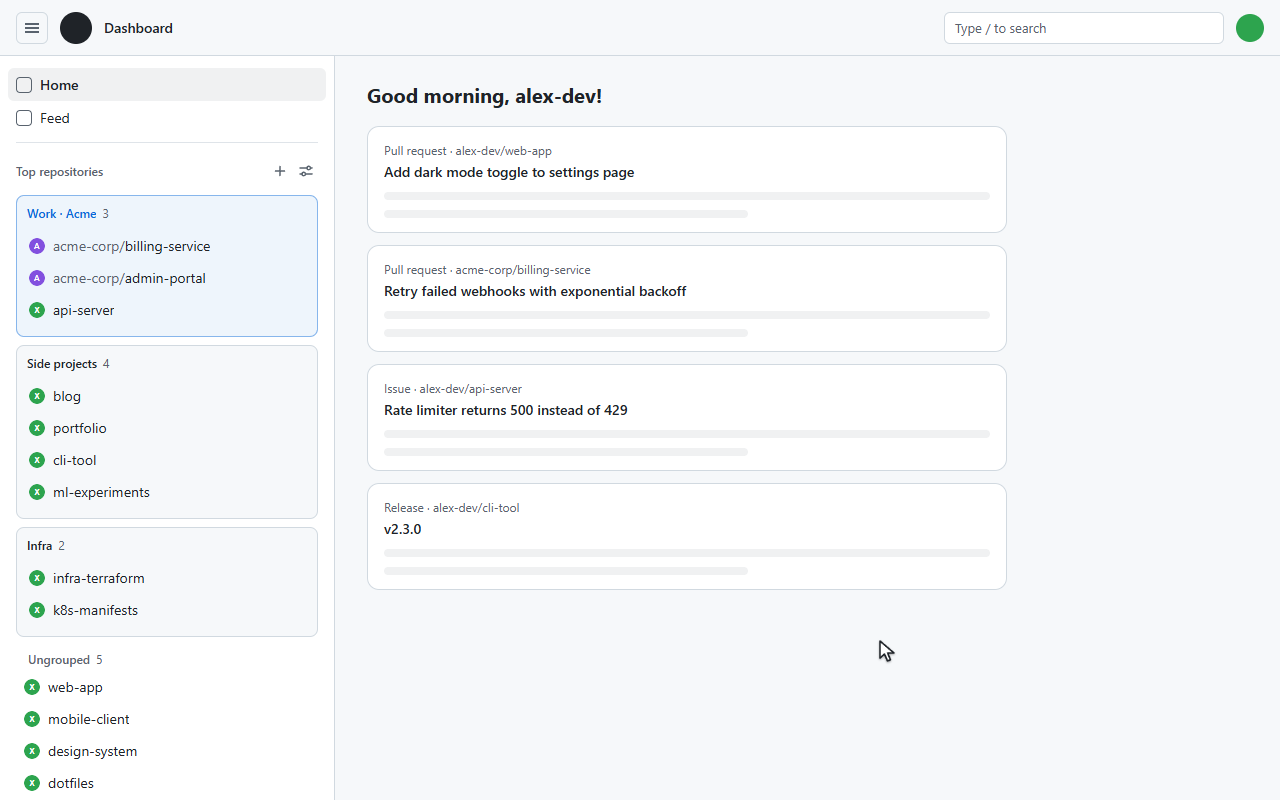
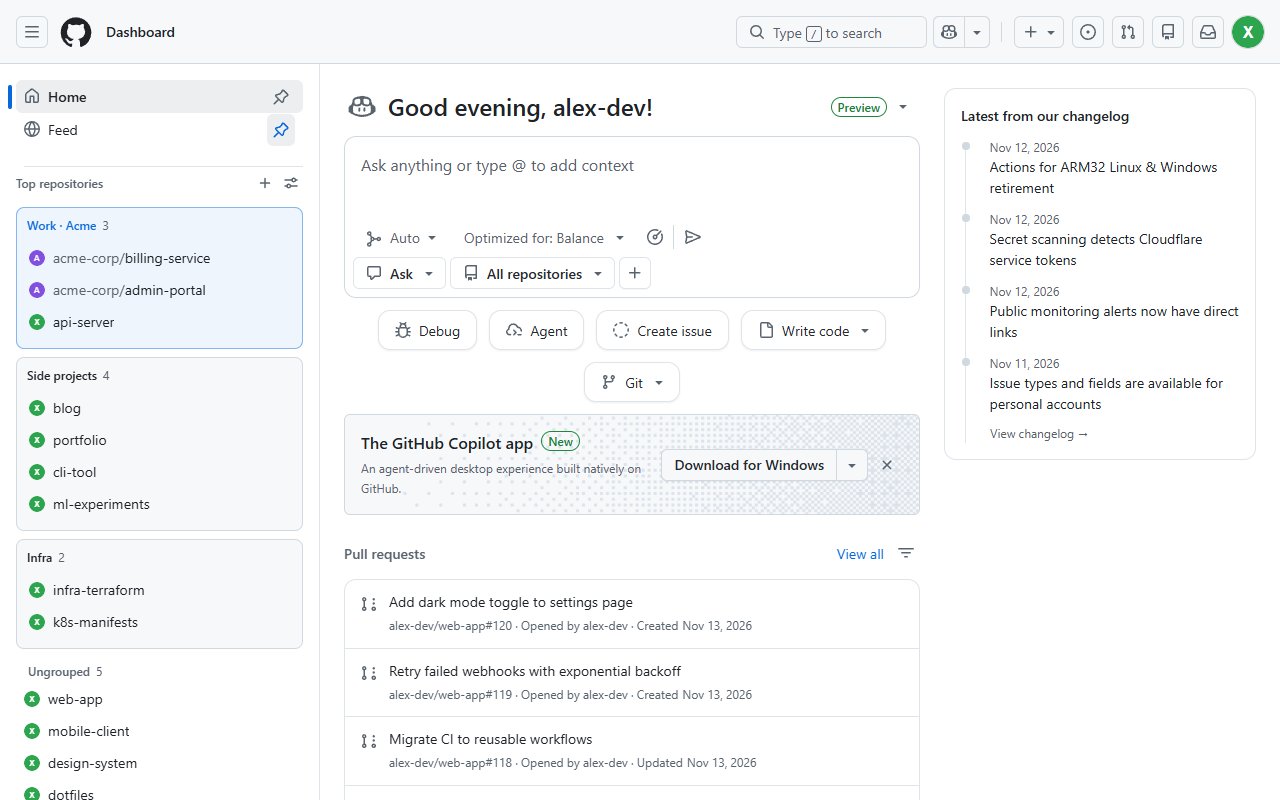
Record the demo on a 1:1 copy of the GitHub home page
- scripts/snapshot-dashboard.js: run in the browser console on
  github.com/dashboard to copy the rendered page, replace the account,
  repositories, PR titles and avatars with fictional ones, verify nothing
  personal is left, then download it. The copy stays out of git.
- record-demo.cjs uses that copy when present (styles load from
  github.githubassets.com, the only request allowed through) and falls back
  to demo/dashboard.html otherwise
- Mouse pointer overlay moved to demo/cursor-overlay.js
- Re-recorded demo.gif, styles.png and the store screenshot

diff --git a/scripts/snapshot-dashboard.js b/scripts/snapshot-dashboard.js
@@ -1,0 +1,119 @@
+// 生成录制演示用的 1:1 GitHub 首页副本（只在你自己的浏览器里运行，不会改动页面）。
+//
+// 用法：登录 GitHub 打开 https://github.com/dashboard，等页面加载完，打开开发者工具的控制台，
+// 粘贴本文件全部内容并回车。脚本会：
+//   1. 复制当前页面的 DOM（不改动原页面），去掉所有脚本、隐藏表单、跟踪属性和 meta 信息；
+//   2. 把侧边栏仓库换成虚构仓库，把你的登录名、仓库名、组织名、PR 标题和头像全部替换成虚构内容；
+//   3. 在页面里检查替换后是否还残留你的账号、仓库名、PR 标题或邮箱，残留则不下载；
+//   4. 检查通过才下载 github-dashboard-mock.html。
+// 把下载的文件放到 .demo-artifacts/github-dashboard.html（已被 git 忽略），再运行 scripts/record-demo.cjs。
+// 这份副本包含 GitHub 的页面代码，请不要提交到仓库。
+(() => {
+  const LOGIN = document.querySelector('meta[name="user-login"]').content;
+  const FAKE = 'alex-dev';
+  const AV_ME = 'https://avatars.githubusercontent.com/u/1001?v=4';
+  const AV_ORG = 'https://avatars.githubusercontent.com/u/2002?v=4';
+  // 和 scripts/record-demo.cjs 里的预置分组一致
+  const DEMO = ['alex-dev/web-app', 'acme-corp/billing-service', 'alex-dev/infra-terraform', 'alex-dev/api-server',
+    'alex-dev/k8s-manifests', 'alex-dev/blog', 'acme-corp/admin-portal', 'alex-dev/ml-experiments', 'alex-dev/cli-tool',
+    'alex-dev/mobile-client', 'alex-dev/portfolio', 'alex-dev/design-system', 'alex-dev/dotfiles', 'alex-dev/data-pipeline'];
+  const FAKE_TITLES = ['Add dark mode toggle to settings page', 'Retry failed webhooks with exponential backoff',
+    'Migrate CI to reusable workflows', 'Fix flaky login test on Safari', 'Bump Terraform AWS provider to v6',
+    'Add pagination to admin user list', 'Cache API responses for 60 seconds', 'Update README badges'];
+
+  const nav = document.querySelector('nav[data-testid="dashboard-repositories"]');
+  const realRepos = [...new Set([...nav.querySelectorAll('[data-testid="dynamic-side-panel-items-item"]')].map((a) => a.getAttribute('href').slice(1)))];
+  const prLinks = [...document.querySelectorAll('a[href*="/pull/"]')];
+  for (const a of prLinks) {
+    const m = a.getAttribute('href').match(/^\/([^/]+\/[^/]+)\/pull\//);
+    if (m && !realRepos.includes(m[1])) realRepos.push(m[1]);
+  }
+  const realTitles = prLinks.map((a) => a.textContent.trim()).filter(Boolean);
+
+  // 真实名称 → 虚构名称的替换表（先替换长的，避免部分匹配）
+  const repoMap = new Map(realRepos.map((r, i) => [r, DEMO[i] || `alex-dev/project-${i}`]));
+  const pairs = [...repoMap];
+  for (const [r, f] of repoMap) { const s = r.split('/')[1]; if (s.length > 3) pairs.push([s, f.split('/')[1]]); }
+  const owners = [...new Set(realRepos.map((r) => r.split('/')[0]))].filter((o) => o.toLowerCase() !== LOGIN.toLowerCase());
+  owners.forEach((o, i) => pairs.push([o, i === 0 ? 'acme-corp' : 'org-' + i]));
+  pairs.push([LOGIN, FAKE]);
+  pairs.sort((a, b) => b[0].length - a[0].length);
+  const esc = (s) => s.replace(/[.*+?^${}()|[\]\\]/g, '\\$&');
+  const big = new RegExp(pairs.map((p) => esc(p[0])).join('|'), 'gi');
+  const lookup = new Map(pairs.map((p) => [p[0].toLowerCase(), p[1]]));
+  const scrub = (s) => s.replace(big, (m) => lookup.get(m.toLowerCase()) ?? m);
+
+  const root = document.documentElement.cloneNode(true);
+  root.classList.remove('ghg-hide-native');
+  const rm = (sel) => root.querySelectorAll(sel).forEach((e) => e.remove());
+  rm('#ghg-root'); rm('script'); rm('noscript'); rm('template'); rm('iframe'); rm('input[type=hidden]');
+  rm('link:not([rel=stylesheet])'); rm('link[rel=stylesheet]:not([href])');
+  root.querySelectorAll('style').forEach((s) => { if (s.textContent.includes('ghg-')) s.remove(); });
+  root.querySelectorAll('meta').forEach((m) => {
+    if (!m.hasAttribute('charset') && !['viewport', 'color-scheme'].includes(m.getAttribute('name'))) m.remove();
+  });
+  const meta = document.createElement('meta');
+  meta.setAttribute('name', 'user-login');
+  meta.setAttribute('content', FAKE);
+  root.querySelector('head').prepend(meta);
+  const title = root.querySelector('title');
+  if (title) title.textContent = 'GitHub';
+
+  // 侧边栏：用虚构仓库重建列表，去掉 Show more
+  const cnav = root.querySelector('nav[data-testid="dashboard-repositories"]');
+  const items = [...cnav.querySelectorAll('[data-testid="dynamic-side-panel-items-item"]')];
+  const tplLi = items[0].closest('li');
+  const list = tplLi.parentElement;
+  items.forEach((a) => a.closest('li').remove());
+  [...cnav.querySelectorAll('button')].filter((b) => /show more/i.test(b.textContent)).forEach((b) => (b.closest('li') || b).remove());
+  for (const full of DEMO) {
+    const li = tplLi.cloneNode(true);
+    const a = li.querySelector('a');
+    a.setAttribute('href', '/' + full);
+    const label = a.querySelector('[class*="ItemLabel"]');
+    if (label) label.textContent = full;
+    const img = a.querySelector('img');
+    if (img) { img.setAttribute('src', full.startsWith('acme-corp') ? AV_ORG : AV_ME); img.removeAttribute('srcset'); img.setAttribute('alt', ''); }
+    list.append(li);
+  }
+
+  // PR 标题和头像换成虚构的
+  [...root.querySelectorAll('a[href*="/pull/"]')].forEach((a, i) => { if (a.textContent.trim()) a.textContent = FAKE_TITLES[i % FAKE_TITLES.length]; });
+  root.querySelectorAll('img').forEach((img) => {
+    const s = img.getAttribute('src') || '';
+    if (s.includes('avatars.githubusercontent.com') && !s.includes('/u/1001') && !s.includes('/u/2002')) { img.setAttribute('src', AV_ME); img.removeAttribute('srcset'); }
+  });
+
+  // 去掉跟踪类属性、nonce、integrity；其余属性值和所有文字做名称替换
+  const dropAttr = /^(nonce|integrity|data-hydro.*|data-analytics.*|data-ga-.*|data-octo.*|data-csrf.*|data-hpc|data-turbo.*|data-pjax.*|data-hovercard.*)$/i;
+  for (const el of [root, ...root.querySelectorAll('*')]) {
+    for (const at of [...el.attributes]) {
+      if (dropAttr.test(at.name)) el.removeAttribute(at.name);
+      else { const v = scrub(at.value); if (v !== at.value) el.setAttribute(at.name, v); }
+    }
+  }
+  const w = document.createTreeWalker(root, NodeFilter.SHOW_TEXT);
+  let n;
+  while ((n = w.nextNode())) { const v = scrub(n.textContent); if (v !== n.textContent) n.textContent = v; }
+
+  const html = '<!doctype html>\n' + root.outerHTML;
+  const low = html.toLowerCase();
+  const leaks = {
+    login: low.includes(LOGIN.toLowerCase()),
+    repos: realRepos.filter((r) => low.includes(r.toLowerCase())).length,
+    shortNames: [...repoMap.keys()].map((r) => r.split('/')[1]).filter((s) => s.length > 3 && new RegExp('\\b' + esc(s) + '\\b', 'i').test(html)).length,
+    titles: realTitles.filter((t) => t.length > 8 && html.includes(t)).length,
+    emails: (html.match(/[\w.+-]+@[\w-]+\.[\w.]+/g) || []).filter((e) => !/@(2x|3x)\b/.test(e)).slice(0, 5),
+  };
+  const clean = !leaks.login && !leaks.repos && !leaks.shortNames && !leaks.titles && leaks.emails.length === 0;
+  if (clean) {
+    const a = document.createElement('a');
+    a.href = URL.createObjectURL(new Blob([html], { type: 'text/html' }));
+    a.download = 'github-dashboard-mock.html';
+    document.body.append(a);
+    a.click();
+    a.remove();
+  }
+  console.log(clean ? 'Downloaded github-dashboard-mock.html' : 'Leaks found, nothing downloaded:', leaks);
+  return { clean, leaks, sizeKB: Math.round(html.length / 1024) };
+})();

diff --git a/demo/cursor-overlay.js b/demo/cursor-overlay.js
@@ -1,0 +1,51 @@
+// 录屏辅助：无头浏览器的录像里没有系统鼠标指针，这里自绘一个指针、点击波纹，
+// 以及拖拽时跟随指针的仓库名标签。由 scripts/record-demo.cjs 通过 addInitScript 注入演示页。
+(() => {
+  const css = `
+    #demo-cursor { position: fixed; left: -50px; top: -50px; z-index: 2147483647; pointer-events: none; transform: translate(-2px, -1px); }
+    #demo-cursor svg { display: block; filter: drop-shadow(0 1px 1px rgba(0,0,0,.35)); }
+    #demo-ghost { position: fixed; z-index: 2147483646; pointer-events: none; display: none; padding: 4px 10px; border-radius: 6px;
+      background: #fff; border: 1px solid #d1d9e0; box-shadow: 0 6px 18px rgba(37,41,46,.15); font: 13px -apple-system, "Segoe UI", sans-serif; color: #1f2328;
+      transform: translate(14px, 10px); }
+    .demo-ripple { position: fixed; z-index: 2147483645; width: 28px; height: 28px; margin: -14px 0 0 -14px; border-radius: 50%; pointer-events: none;
+      background: rgba(9, 105, 218, .25); animation: demo-rip .45s ease-out forwards; }
+    @keyframes demo-rip { from { transform: scale(.3); opacity: 1; } to { transform: scale(1.4); opacity: 0; } }`;
+
+  function install() {
+    const style = document.createElement('style');
+    style.textContent = css;
+    document.head.append(style);
+    const cursor = document.createElement('div');
+    cursor.id = 'demo-cursor';
+    cursor.innerHTML = '<svg width="20" height="24" viewBox="0 0 20 24"><path d="M2 2 L2 19 L6.5 15 L9.5 22 L12.5 20.8 L9.6 14 L16 14 Z" fill="#fff" stroke="#1f2328" stroke-width="1.6" stroke-linejoin="round"/></svg>';
+    const ghost = document.createElement('div');
+    ghost.id = 'demo-ghost';
+    document.body.append(cursor, ghost);
+
+    const move = (x, y) => {
+      cursor.style.left = x + 'px'; cursor.style.top = y + 'px';
+      ghost.style.left = x + 'px'; ghost.style.top = y + 'px';
+    };
+    document.addEventListener('mousemove', (e) => move(e.clientX, e.clientY), true);
+    document.addEventListener('dragover', (e) => move(e.clientX, e.clientY), true);
+    document.addEventListener('drag', (e) => { if (e.clientX || e.clientY) move(e.clientX, e.clientY); }, true);
+    document.addEventListener('mousedown', (e) => {
+      const r = document.createElement('div');
+      r.className = 'demo-ripple'; r.style.left = e.clientX + 'px'; r.style.top = e.clientY + 'px';
+      document.body.append(r); setTimeout(() => r.remove(), 500);
+    }, true);
+    // 用冒泡阶段：扩展在自己的 dragstart 里写入仓库名之后，这里才读得到
+    document.addEventListener('dragstart', (e) => {
+      const name = e.dataTransfer?.getData('text/plain') || '';
+      if (!name.includes('/')) return;
+      ghost.textContent = name.split('/')[1];
+      ghost.style.display = 'block';
+    });
+    const hide = () => { ghost.style.display = 'none'; };
+    document.addEventListener('dragend', hide, true);
+    document.addEventListener('drop', hide, true);
+  }
+
+  if (document.readyState === 'loading') document.addEventListener('DOMContentLoaded', install);
+  else install();
+})();

diff --git a/demo/dashboard.html b/demo/dashboard.html
@@ -52,14 +52,6 @@
   .bar { height: 8px; border-radius: 4px; background: var(--bgColor-neutral-muted); margin-top: 10px; }
   .bar.s { width: 60%; }
 
-  /* 录屏用的鼠标指针（无头浏览器录像里没有系统指针） */
-  #cursor { position: fixed; left: 0; top: 0; z-index: 2147483647; pointer-events: none; transform: translate(-2px, -1px); }
-  #cursor svg { display: block; filter: drop-shadow(0 1px 1px rgba(0,0,0,.35)); }
-  #ghost { position: fixed; z-index: 2147483646; pointer-events: none; display: none; padding: 4px 10px; border-radius: 6px;
-    background: var(--bgColor-default); border: 1px solid var(--borderColor-default); box-shadow: var(--shadow-floating-small); font-size: 13px; transform: translate(14px, 10px); }
-  .ripple { position: fixed; z-index: 2147483645; width: 28px; height: 28px; margin: -14px 0 0 -14px; border-radius: 50%; pointer-events: none;
-    background: rgba(9, 105, 218, .25); animation: rip .45s ease-out forwards; }
-  @keyframes rip { from { transform: scale(.3); opacity: 1; } to { transform: scale(1.4); opacity: 0; } }
 </style>
 </head>
 <body>
@@ -98,9 +90,6 @@
     </main>
   </div>
 
-  <div id="cursor"><svg width="20" height="24" viewBox="0 0 20 24"><path d="M2 2 L2 19 L6.5 15 L9.5 22 L12.5 20.8 L9.6 14 L16 14 Z" fill="#fff" stroke="#1f2328" stroke-width="1.6" stroke-linejoin="round"/></svg></div>
-  <div id="ghost"></div>
-
 <script>
   // 虚构的仓库列表：前 10 个先显示，点 Show more 再加载剩下的（和真实页面一样）
   const REPOS = [
@@ -128,32 +117,6 @@
   document.getElementById('more').addEventListener('click', () => setTimeout(() => addBatch(10), 150));
   addBatch(10);
 
-  // 录屏用：自绘鼠标指针、点击波纹、拖拽时跟随指针的仓库名
-  const cursor = document.getElementById('cursor');
-  const ghost = document.getElementById('ghost');
-  const move = (x, y) => {
-    cursor.style.left = x + 'px'; cursor.style.top = y + 'px';
-    ghost.style.left = x + 'px'; ghost.style.top = y + 'px';
-  };
-  document.addEventListener('mousemove', (e) => move(e.clientX, e.clientY), true);
-  document.addEventListener('dragover', (e) => move(e.clientX, e.clientY), true);
-  document.addEventListener('drag', (e) => { if (e.clientX || e.clientY) move(e.clientX, e.clientY); }, true);
-  document.addEventListener('mousedown', (e) => {
-    const r = document.createElement('div');
-    r.className = 'ripple'; r.style.left = e.clientX + 'px'; r.style.top = e.clientY + 'px';
-    document.body.append(r); setTimeout(() => r.remove(), 500);
-  }, true);
-  // 用冒泡阶段：扩展在自己的 dragstart 里写入仓库名之后，这里才读得到
-  document.addEventListener('dragstart', (e) => {
-    const name = e.dataTransfer?.getData('text/plain') || '';
-    if (!name.includes('/')) return;
-    ghost.textContent = name.split('/')[1];
-    ghost.style.display = 'block';
-  });
-  const hideGhost = () => { ghost.style.display = 'none'; };
-  document.addEventListener('dragend', hideGhost, true);
-  document.addEventListener('drop', hideGhost, true);
-  move(-50, -50);
 </script>
 </body>
 </html>

diff --git a/README.md b/README.md
@@ -135,9 +135,13 @@ extension/        the extension itself (Manifest V3, plain JavaScript, no depend
   _locales/       store name and description (en, zh_CN)
 scripts/
   audit-extension.cjs   automated checks in a temporary headless Chrome
-  record-demo.cjs       records docs/images/demo.gif from demo/dashboard.html
+  record-demo.cjs       records docs/images/demo.gif and screenshots with the real extension
+  snapshot-dashboard.js run in your browser console on github.com/dashboard to make a 1:1 page copy
+                        with your account, repos and PRs replaced by fictional ones (kept out of git)
   build-icons.cjs       renders extension/icons/*.png
-demo/dashboard.html     local mock of the GitHub home page (fictional repos) used by the demo
+demo/
+  dashboard.html        hand-made fallback mock of the GitHub home page (fictional repos)
+  cursor-overlay.js     draws the mouse pointer in recordings
 docs/                   market research, design notes and security audit (Chinese)
 ```
 
